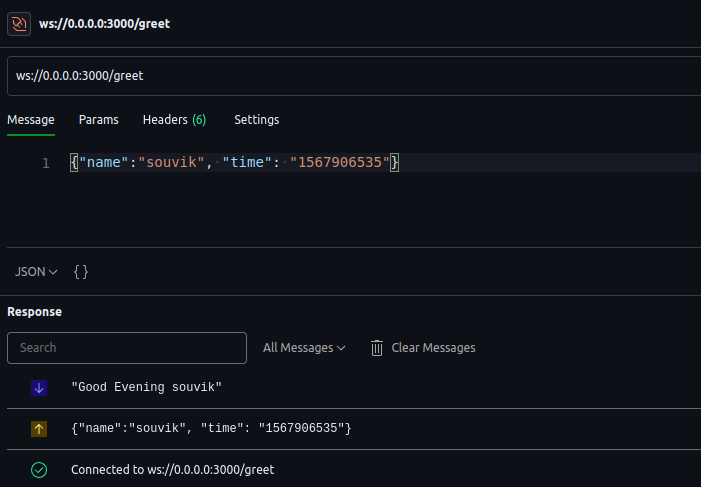
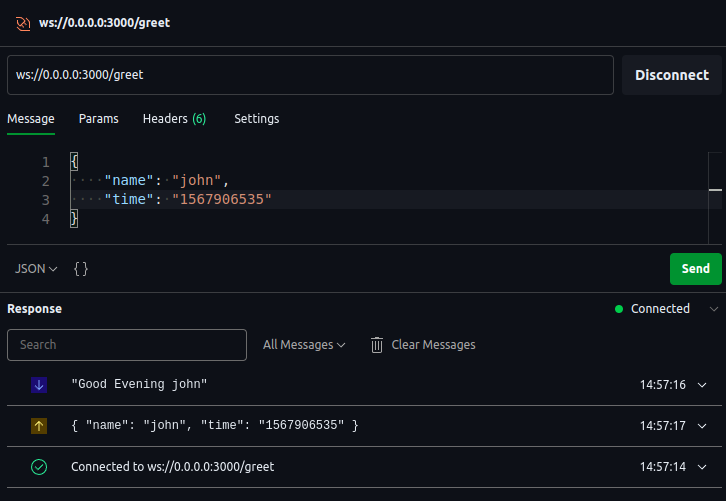
rectify the example

diff --git a/docs/getting-started.md b/docs/getting-started.md
@@ -135,7 +135,7 @@ npm run dev
 # or 
 npm run start
 ```
-To send a WebSocket request with a payload e.g. `{"name":"souvik", "time": "1567906535"}` to `ws://localhost:3000/greet`, open Postman and checkout the endpoint:
+To send a WebSocket request with a payload e.g. `{"name":"john", "time": "1567906535"}` to `ws://localhost:3000/greet`, open Postman and checkout the endpoint:
 
 ![glee_response](/assets/glee_resp.png)
 
